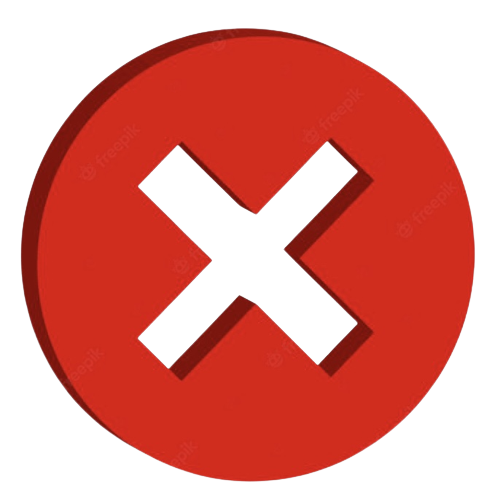
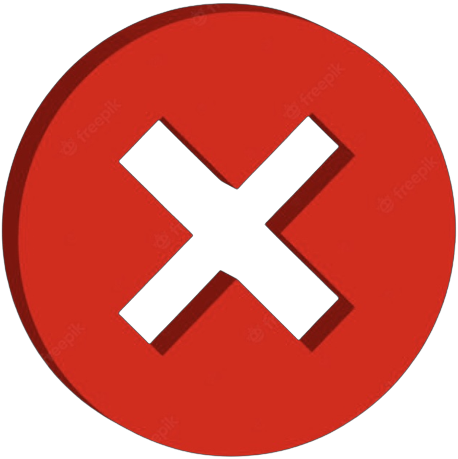
ajout icone editeur niveau

diff --git a/Vue/EditeurNiveaux.java b/Vue/EditeurNiveaux.java
@@ -373,6 +373,11 @@ public class EditeurNiveaux extends JPanel {
 
         // JButton croix
         croix = new JButton("supp");
+        croix.setIcon(new ImageIcon(ImageImport.getImage("Menu/croixRouge.png", largeurBouton, largeurBouton)));
+        croix.setBorderPainted(false); 
+        croix.setContentAreaFilled(false); 
+        croix.setFocusPainted(false); 
+        croix.setOpaque(false);
         croix.setBounds(width - courtWidth + 4*largeurBouton, gap, largeurBouton, largeurBouton);
         croix.addActionListener(e -> {
             for (Pegs peg : pegsSelectionnes) {
@@ -382,7 +387,6 @@ public class EditeurNiveaux extends JPanel {
             court.setPegs(court.clonePegs(niveauCree.getPegs()));
             court.repaint();
         });
-        // TODO ajout icon "croixRouge"
         panelBoutons.add(croix);
 
         // Bouton pause
@@ -421,6 +425,11 @@ public class EditeurNiveaux extends JPanel {
 
         //JButton modif
         modif = new JButton("modif");
+        modif.setIcon(new ImageIcon(ImageImport.getImage("Menu/curseurMain.png", largeurBouton, largeurBouton)));
+        modif.setBorderPainted(false); 
+        modif.setContentAreaFilled(false); 
+        modif.setFocusPainted(false); 
+        modif.setOpaque(false);
         modif.setBounds(courtWidth - 3*largeurBouton, gap, largeurBouton, largeurBouton);
         modif.addActionListener(e -> {
             pause.doClick();
@@ -428,15 +437,13 @@ public class EditeurNiveaux extends JPanel {
             caseActive.unclicked();
             court.setCursor(new Cursor(Cursor.HAND_CURSOR));
         });
-        // TODO ajout icon
-        // Icon icon = new ImageIcon(ImageImport.getImage("curseurMain.jpg", largeurBouton, largeurBouton));
-        // modif.setIcon(icon);
         panelBoutons.add(modif);
 
         // Réglages par défaut
         casePegBleu.mousePressed(null);
         setFocusable(true);
         this.addKeyListener(new BoutonMenu.BoutonClavier(new BoutonMenu[]{}, ()-> controleur.launchMenu()));
+        requestFocusInWindow() ;
 
     }
 
@@ -536,8 +543,12 @@ public class EditeurNiveaux extends JPanel {
                 court.setPegs(court.clonePegs(niveauCree.getPegs()));
                 court.repaint();
             });
-            Icon icon = new ImageIcon(ImageImport.getImage(Pegs.intColorToString(couleur)));
-            setIcon(icon);
+            Icon icon = new ImageIcon(ImageImport.getImage(Pegs.intColorToString(couleur), largeurBouton, largeurBouton));
+            setBorderPainted(false); 
+            setContentAreaFilled(false); 
+            setFocusPainted(false); 
+            setOpaque(false);
+            setIcon(icon);  
             setSize(largeurBouton, largeurBouton);
         }
     }
